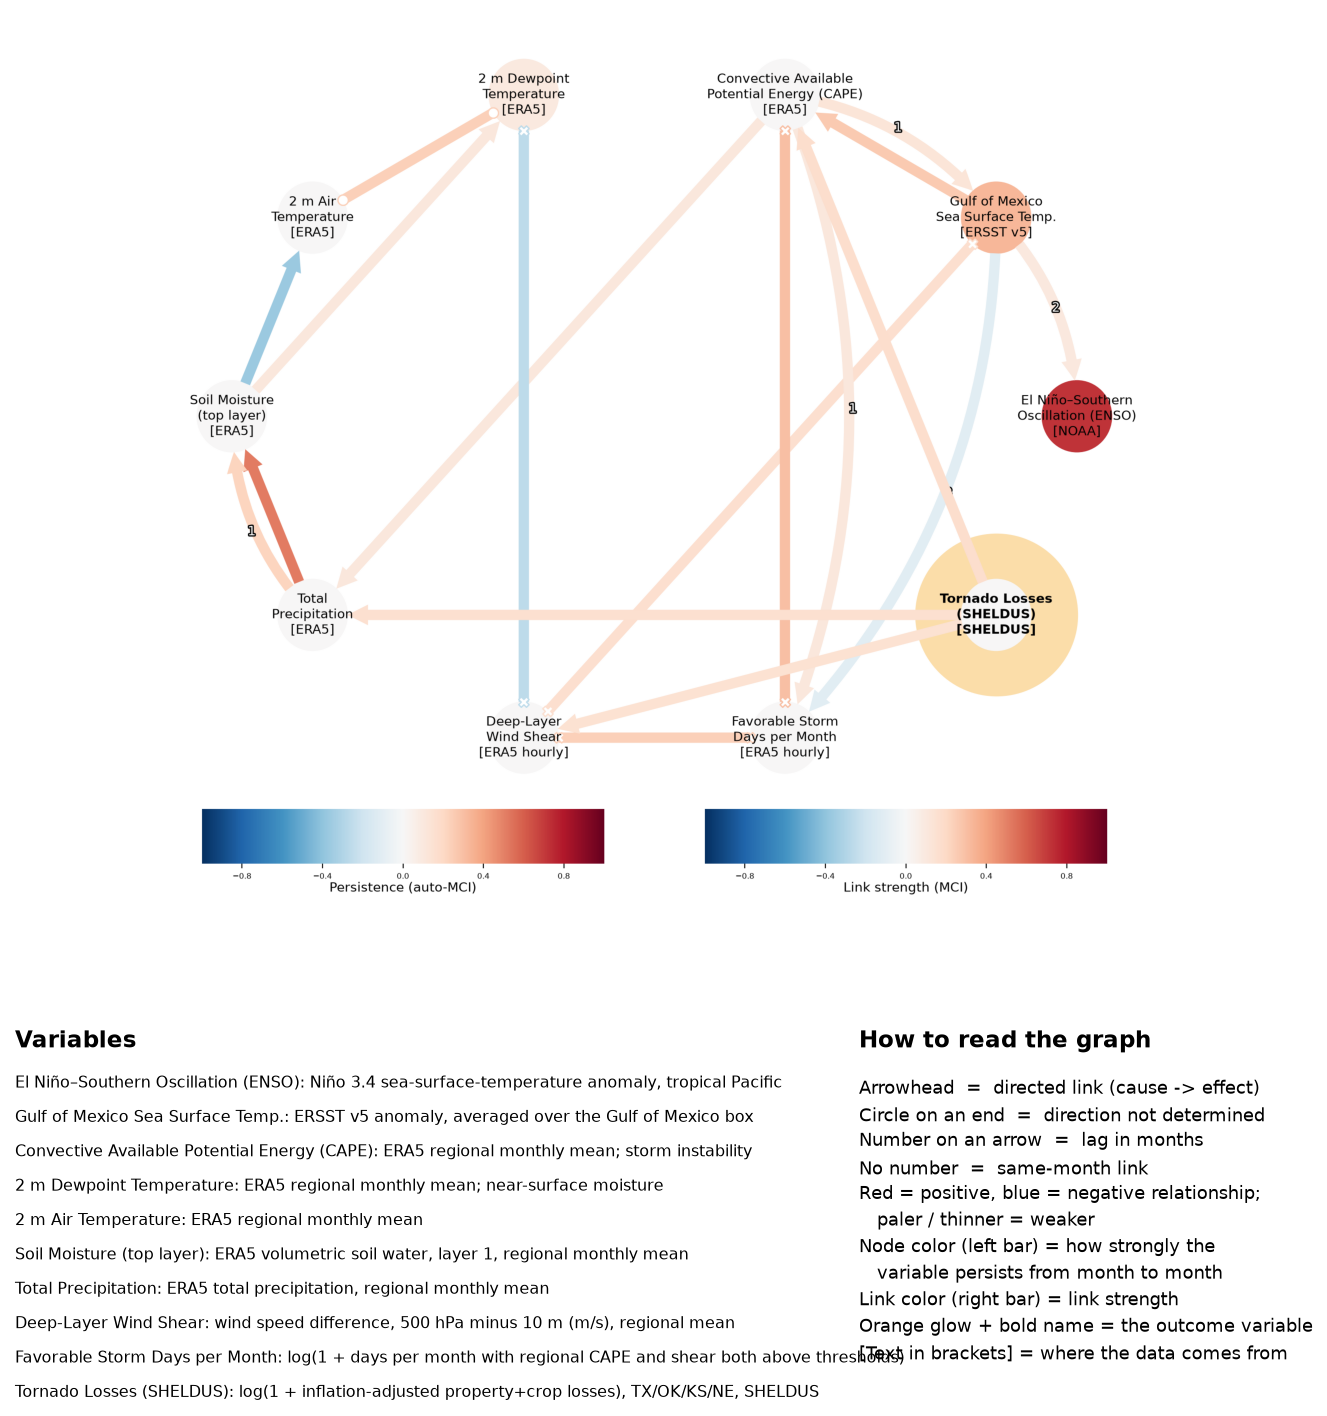
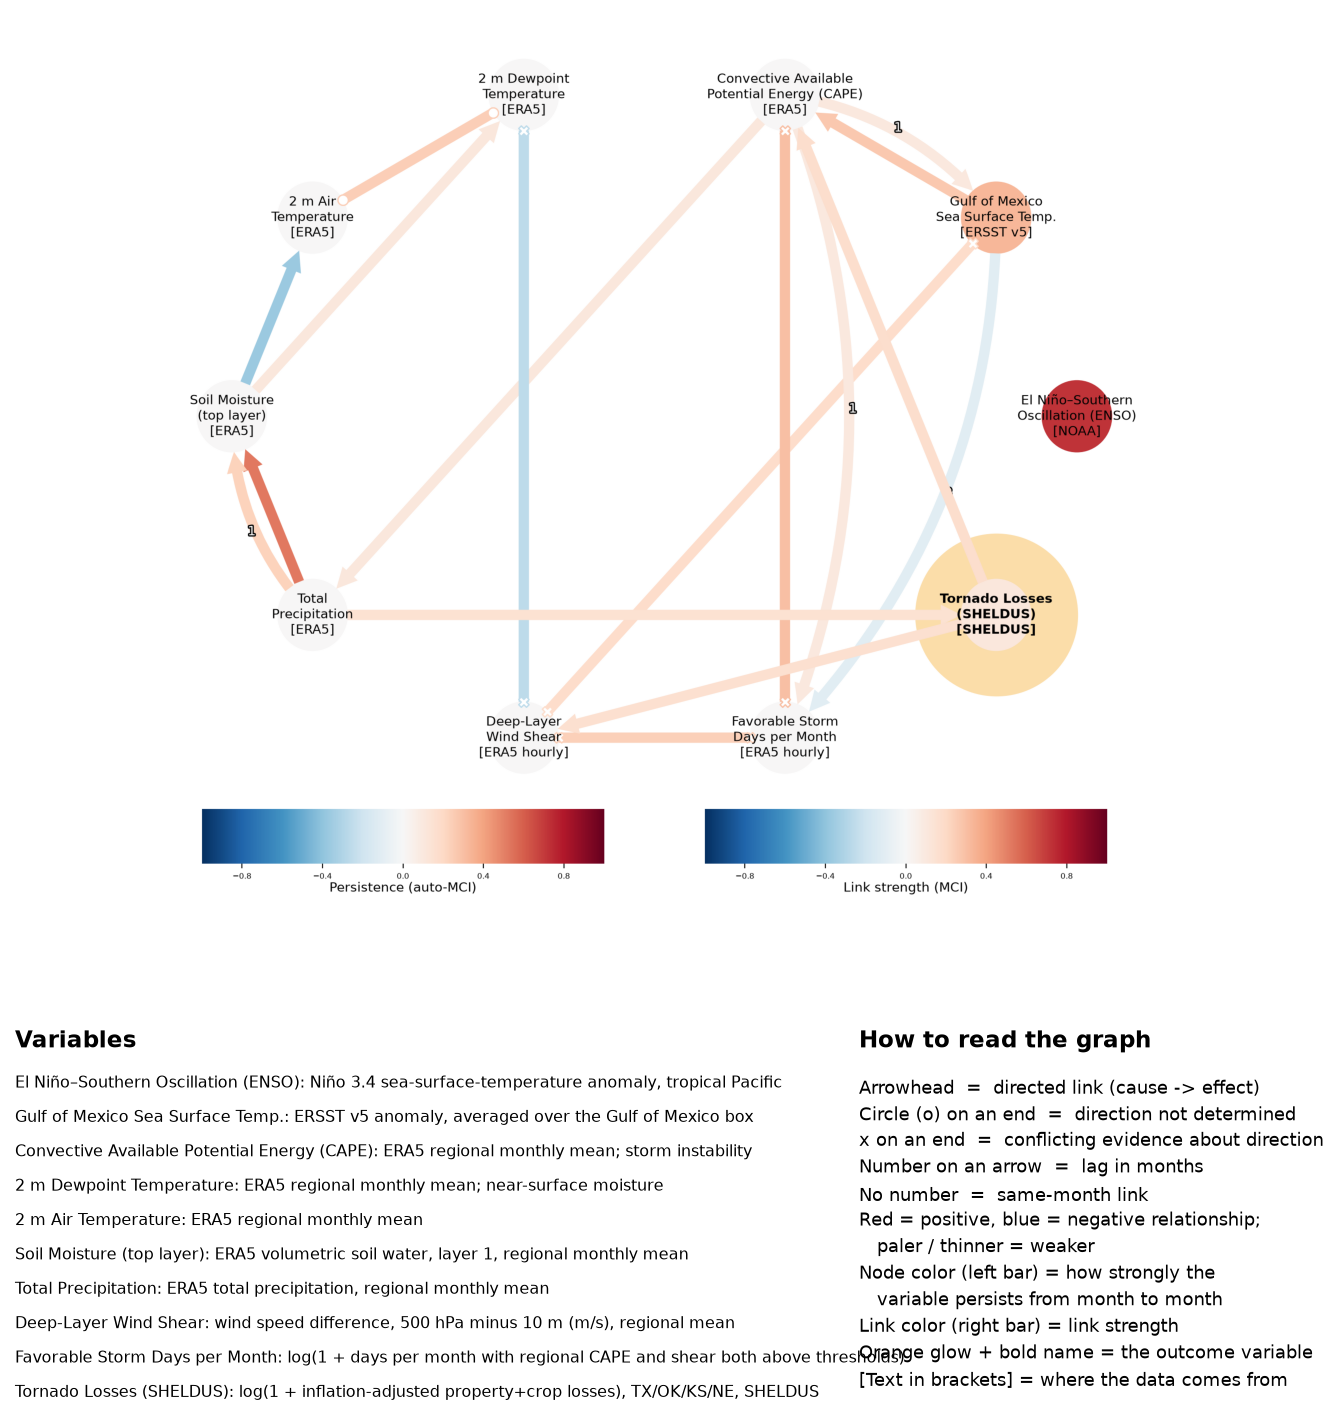
minor changes + readme.md

diff --git a/PCMCI/run-PCMCI.py b/PCMCI/run-PCMCI.py
@@ -102,7 +102,8 @@ VAR_DETAILS = {
 }
 HOW_TO_READ = [
     "Arrowhead  =  directed link (cause -> effect)",
-    "Circle on an end  =  direction not determined",
+    "Circle (o) on an end  =  direction not determined",
+    "x on an end  =  conflicting evidence about direction",
     "Number on an arrow  =  lag in months",
     "No number  =  same-month link",
     "Red = positive, blue = negative relationship;",
@@ -275,7 +276,8 @@ def main():
             links.to_csv(os.path.join(a.out_dir, f"links_{name}.csv"), index=False)
         save_graph(res, list(df.columns), os.path.join(a.out_dir, f"graph_{name}.png"),
                    states)
-        print("(mark '-->' = directed; 'o-o' = same-month link whose direction is undetermined)")
+        print("(mark '-->' = directed; 'o-o' = same-month link whose direction is undetermined; "
+              "'x' on an end = conflicting evidence about the direction)")
 
     print(f"\nDone. Results in ./{a.out_dir}")
 

diff --git a/README.md b/README.md
@@ -1,0 +1,125 @@
+# Tornado Causality Research
+
+Finds which large-scale weather and climate variables drive tornado activity and tornado losses in the central US, using **PCMCI+** (causal discovery for time series, via the Tigramite library) on monthly data from 1982 to 2024.
+
+## Pipeline at a glance
+
+```
+Data/ (raw files)
+   |
+   |  CombineHourly.py      hourly ERA5 NetCDF  ->  two CSVs      (optional)
+   v
+   |  PreProcessData.py     raw files -> clean monthly table
+   v
+output/preprocessed_*.csv
+   |
+   |  run-PCMCI.py          causal discovery
+   v
+output/links_*.csv + output/graph_*.png
+```
+
+## Scripts
+
+### `CombineHourly.py` (optional, only for the hourly ERA5 data)
+Merges the per-year hourly ERA5 NetCDF files into two CSVs in `Data/`:
+- `era5_pressure_winds.csv`: 500 hPa winds (`u500`, `v500`)
+- `era5_surface.csv`: `cape`, `u10`, `v10` (10 m winds)
+
+It only averages each time step over the study box (weighted by cos(latitude)); nothing else is computed. Each CSV has a `.meta.json` recording the box used.
+
+```
+python CombineHourly.py --box 43 26 -106 -94
+```
+Box order is North, South, West, East. Use the same box everywhere.
+
+### `PreProcessData.py`
+Everything that happens before the causal algorithm:
+1. Loads each source (SPC tornadoes, SHELDUS losses, ENSO, Gulf SST, ERA5 monthly files, hourly CSVs).
+2. Puts them on a common monthly index and merges them.
+3. Removes the seasonal cycle and the linear trend (standardized anomalies).
+4. Saves the results, plus quick-look plots.
+
+Outcome variables (`--outcome`):
+
+| Option | Variable | Meaning |
+|---|---|---|
+| `spc` | `tornado_days` | log(1 + days per month with an EF1+ tornado) |
+| `count` | `tornado_count` | log(1 + EF1+ tornadoes per month) |
+| `outbreaks` | `outbreak_days` | log(1 + days with 6+ EF1+ tornadoes; set with `--outbreak-min`) |
+| `sheldus` | `sheldus_loss` | log(1 + inflation-adjusted property + crop losses from tornadoes) |
+| `both` / `all` | | `spc` + `sheldus` / all four |
+
+```
+python PreProcessData.py --outcome all --extra soil precip --hourly --box 43 26 -106 -94
+```
+Other options: `--states` (SPC and SHELDUS states), `--era5-file`, `--start`, `--end`, `--hourly-vars`, `--cape-thr`, `--shear-thr`.
+
+### `run-PCMCI.py`
+Reads `output/preprocessed_<outcome>.csv`, runs PCMCI+ with a partial-correlation test, and writes a table of significant links and a graph. It does no data cleaning.
+
+```
+python run-PCMCI.py --outcome all --drop t2m
+python run-PCMCI.py --outcome spc --tau-max 6 --alpha 0.05
+```
+- `--tau-max`: longest lag tested, in months (default 3)
+- `--alpha`: significance level (default 0.01)
+- `--drop`: variables to leave out of a run
+
+## Output folder
+
+| File | What it is |
+|---|---|
+| `merged_monthly_<outcome>.csv` | Raw monthly values of every variable (before anomalies) |
+| `preprocessed_<outcome>.csv` | Standardized, detrended anomalies; this is the input to PCMCI |
+| `preprocessed_<outcome>.meta.json` | States, box and dates used (read for graph captions) |
+| `qa_series_<outcome>.png` | Time-series plot of every variable, for checking the data |
+| `links_<outcome>.csv` | Significant causal links found by PCMCI+ |
+| `graph_<outcome>.png` | The causal graph with a legend |
+
+`<outcome>` is one of `tornado_days`, `tornado_count`, `outbreak_days`, `sheldus_loss`.
+
+### Reading `links_<outcome>.csv`
+Columns: `source, target, lag, mark, strength, p_value`.
+- **lag**: months by which the source leads the target (0 = same month).
+- **mark**: `-->` directed (source causes target); `o-o` same-month link, direction undetermined; an `x` on an end means conflicting evidence about direction.
+- **strength**: partial correlation (MCI value) between -1 and 1. Negative means the two move in opposite directions. Weak values (about 0.2 or below) explain little variance.
+- **p_value**: significance of the link.
+
+### Reading `graph_<outcome>.png`
+- The outcome variable is highlighted (orange glow, bold name).
+- Arrowhead = directed link; circle (o) = direction not determined; x = conflicting evidence on direction.
+- Number on a link = lag in months; no number = same month.
+- Red = positive, blue = negative; paler and thinner = weaker.
+- Node color = how strongly a variable persists from month to month.
+- Text in brackets under a name = the data source (ERA5, NOAA, SPC, etc.).
+
+Only links into the outcome with lag of at least 1 month can be used for forecasting. Same-month links describe the physics but cannot predict ahead.
+
+## Data (`Data/`)
+
+| File | Source |
+|---|---|
+| `1950-2025_SPC.csv` | NOAA Storm Prediction Center tornado records |
+| `direct_loss_aggregated_output_*.csv` | SHELDUS county x year x month tornado losses |
+| `NOAA_SST.txt` | NOAA monthly Nino indices (ENSO, Nino 3.4 anomaly) |
+| `ERDDAP.csv` | ERSST v5 Gulf of Mexico sea surface temperature anomaly |
+| `ERA5_core_monthly.nc` | ERA5 monthly CAPE, 2 m dewpoint, 2 m temperature |
+| `ERA5_Volumetric_soil_layer_1.nc` | ERA5 monthly soil moisture |
+| `ERA5_total_precipitation.nc` | ERA5 monthly precipitation |
+| `era5_round2/` | ERA5 hourly files (500 hPa winds, CAPE, 10 m winds), one per year |
+| `era5_pressure_winds.csv`, `era5_surface.csv` | Created by `CombineHourly.py` |
+
+ERA5 is a reanalysis: a weather model continuously corrected with real observations. It describes the large-scale environment well but cannot see individual storms.
+
+## Setup
+
+```
+python -m pip install -r Requirements.txt
+```
+Needs Python 3 with pandas, numpy, xarray, netCDF4, matplotlib, networkx, tigramite (and joblib, numba, scipy, scikit-learn). ERA5 downloads also need `cdsapi` and a `.cdsapirc` file with your Copernicus key (never commit it).
+
+## Caveats
+- Hidden common causes (confounders) and weak links mean results are suggestive, not proof.
+- Same-month link directions are unreliable.
+- Many tests are run at once, so a few chance links are expected. Check that a link keeps its strength across different `--tau-max` values and time periods.
+- SHELDUS losses are sparse and noisy; tornado counts and days are easier to model.
